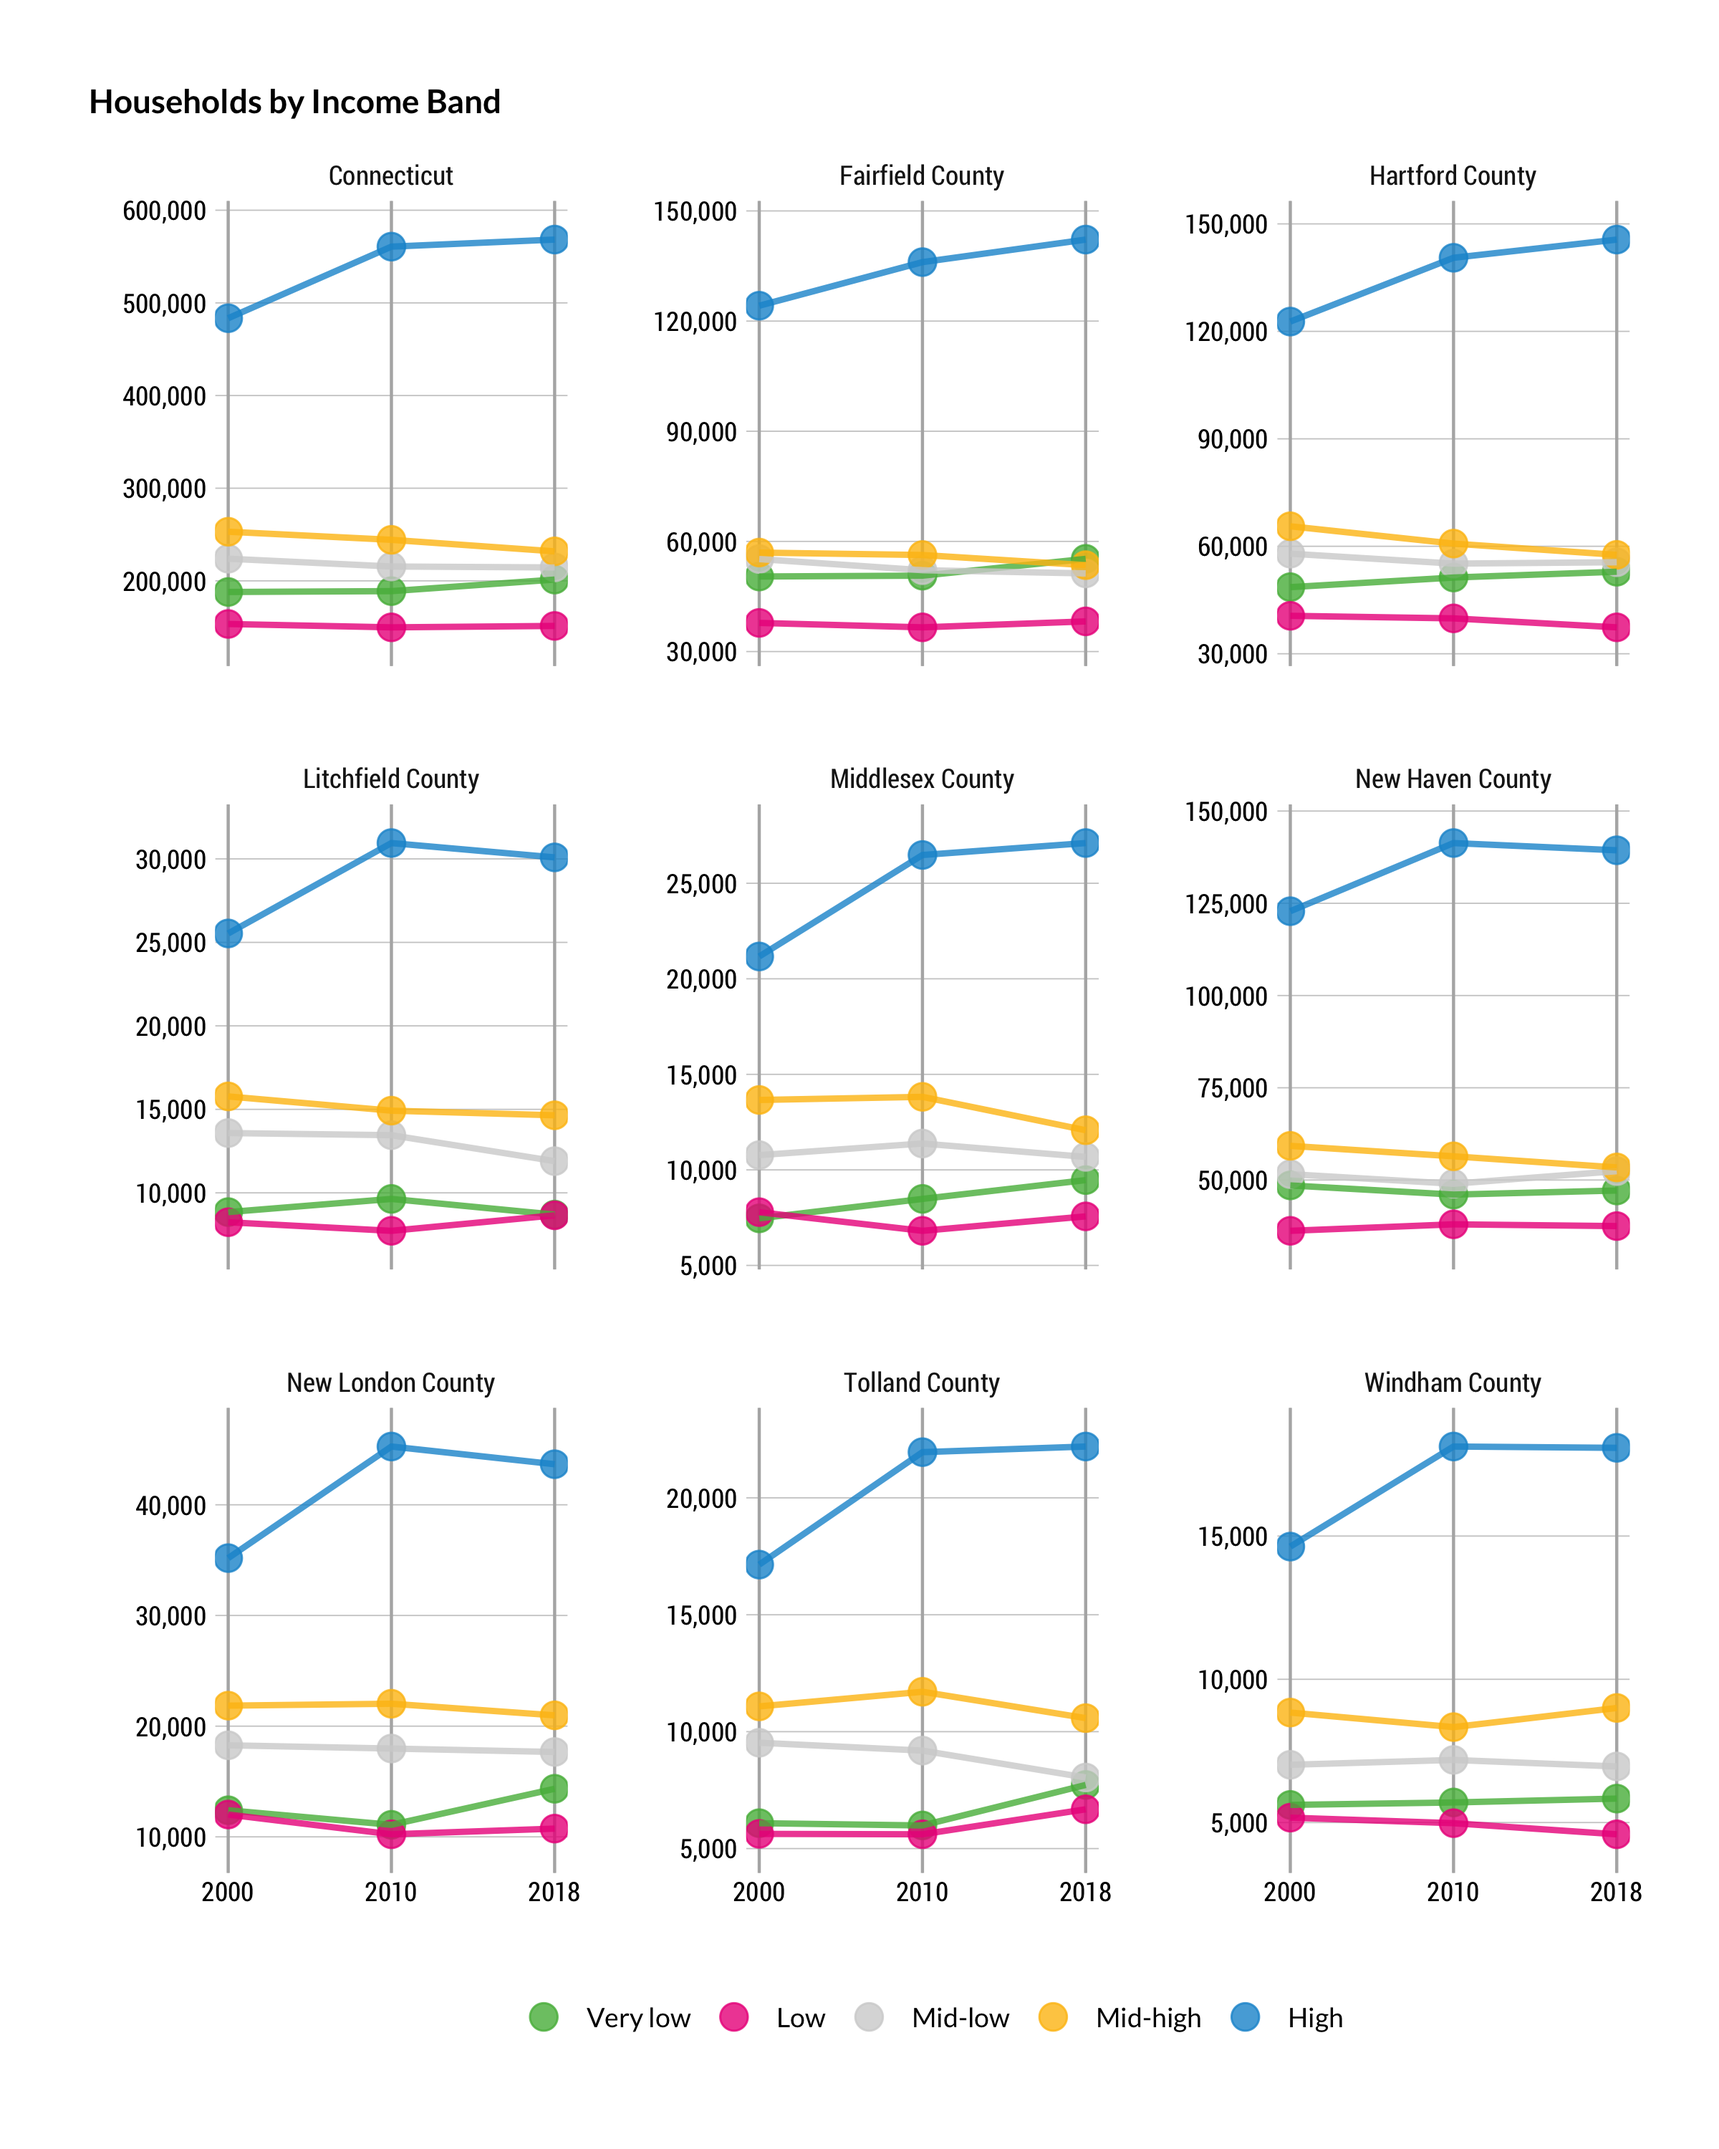
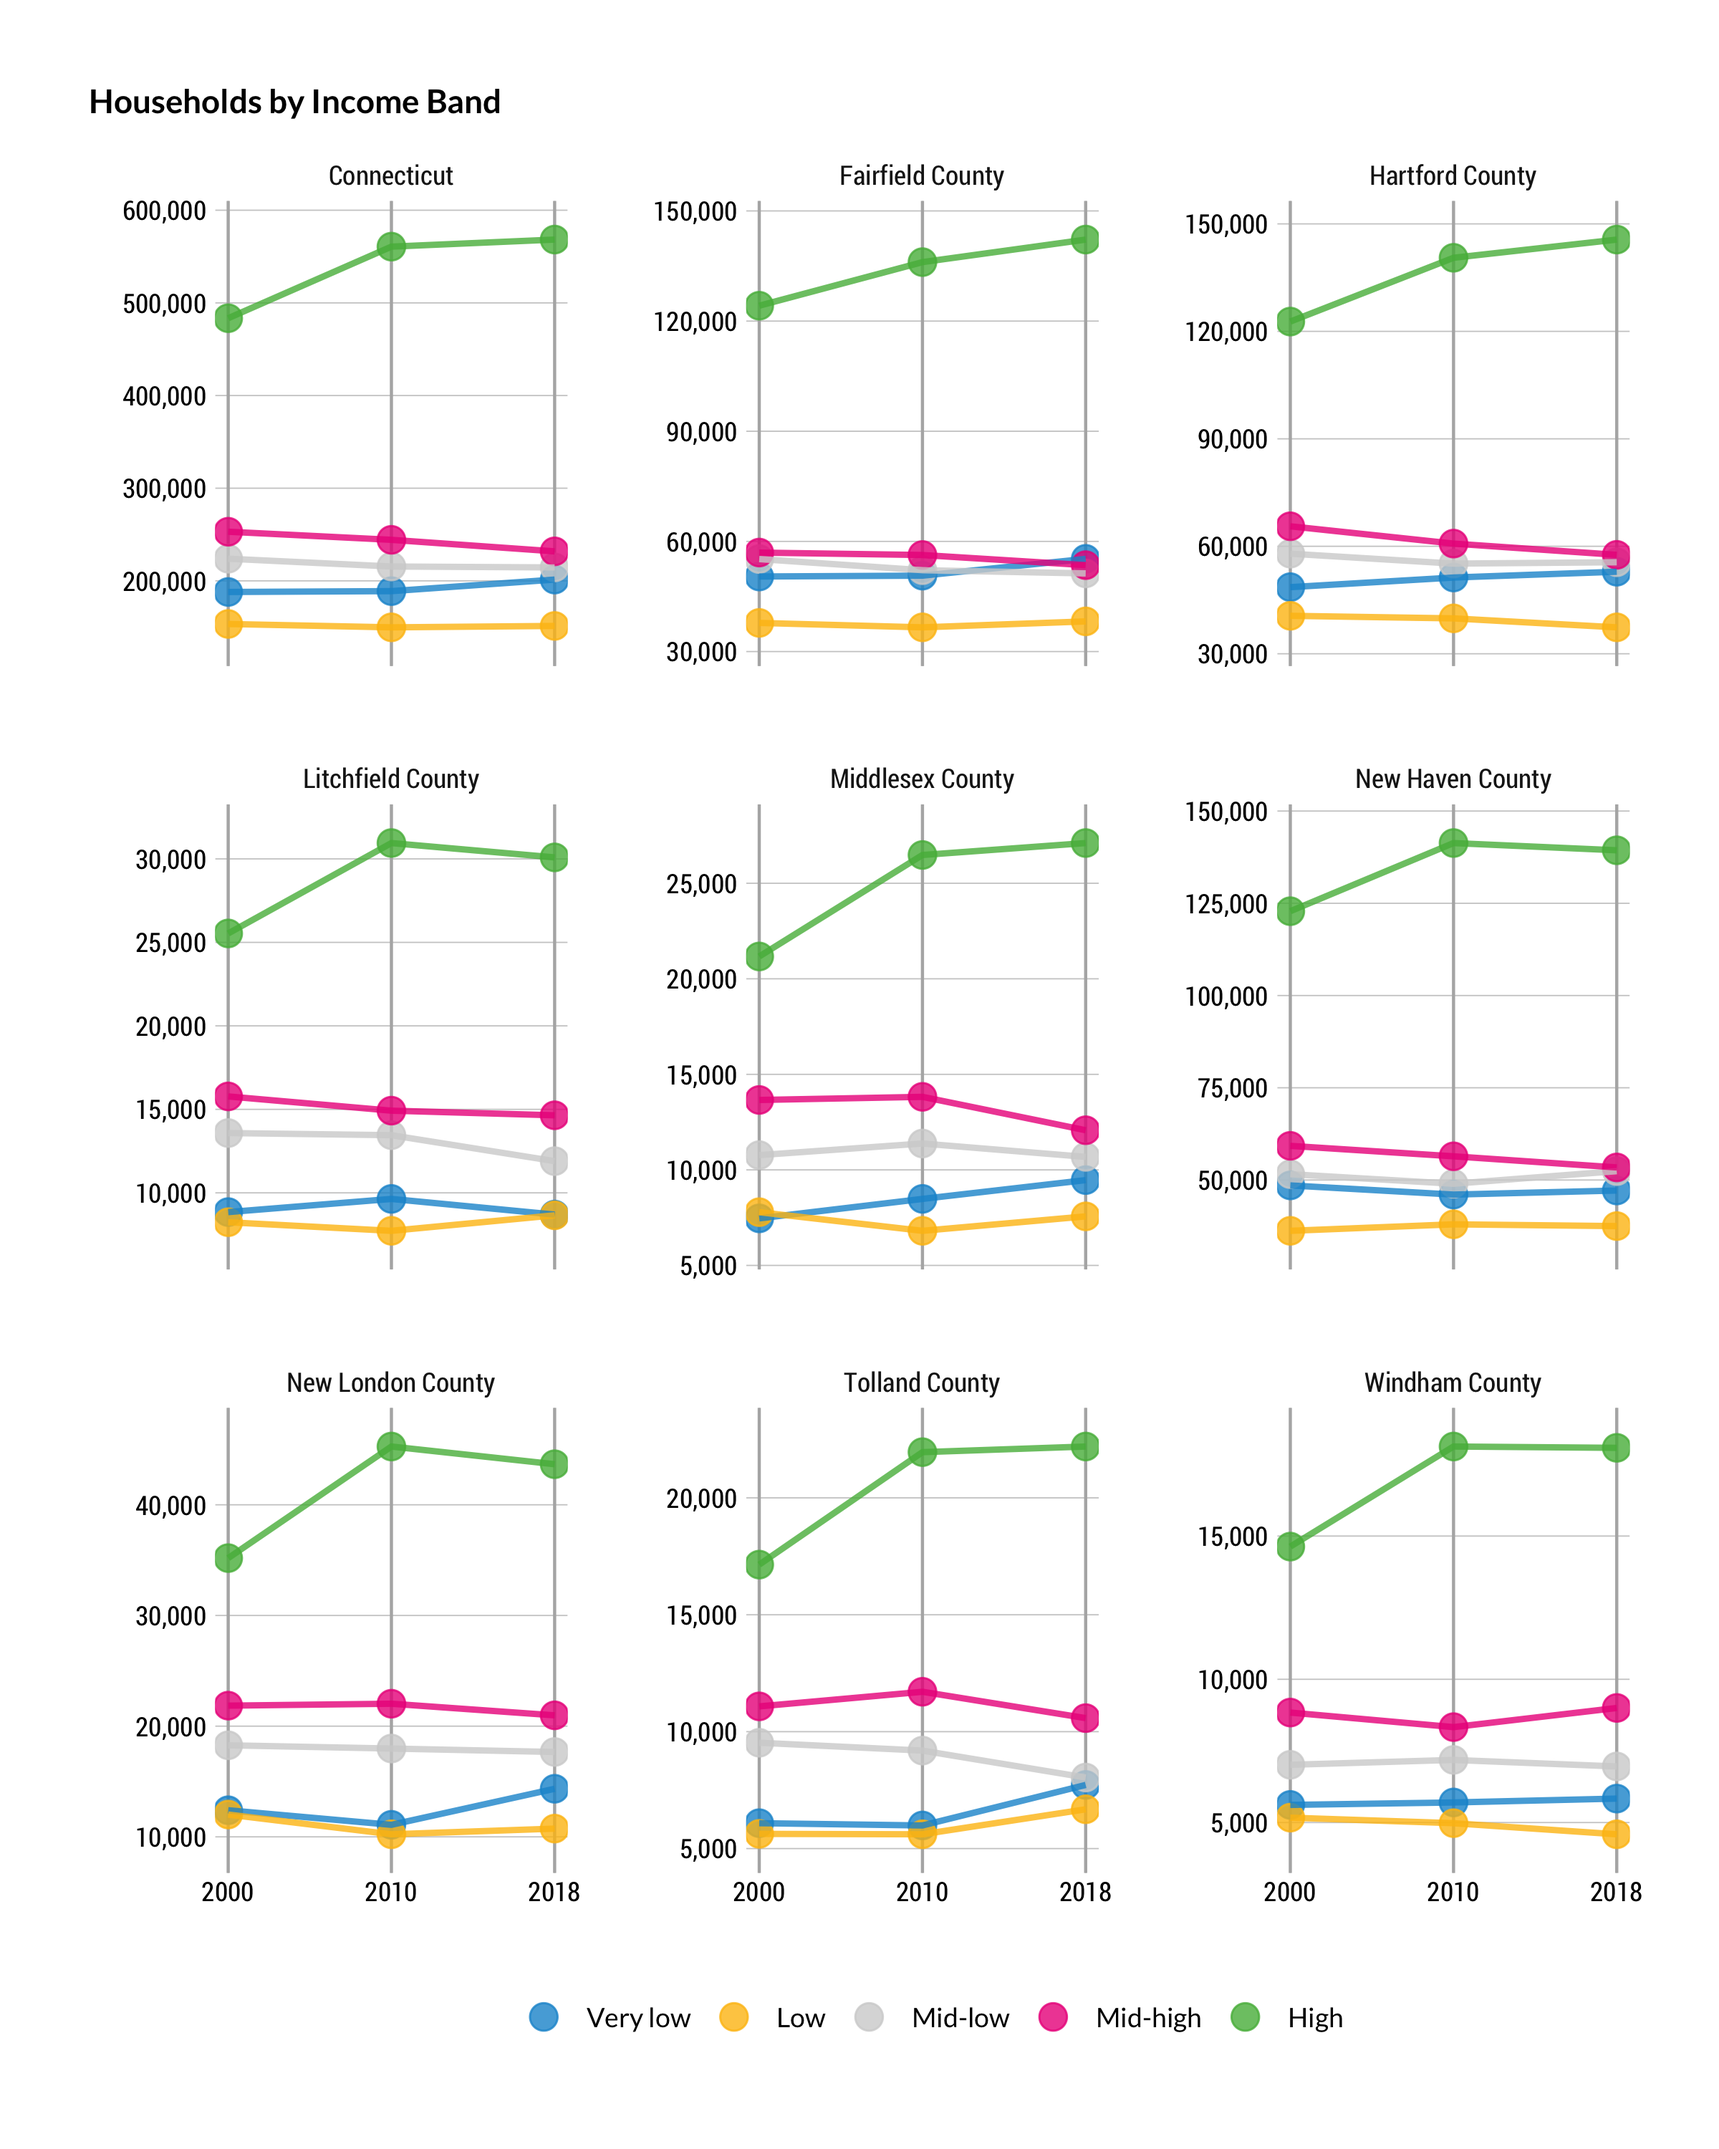
chart fix

diff --git a/notebooks/hh_by_income.md b/notebooks/hh_by_income.md
@@ -201,7 +201,7 @@ hh_by_2018_inc_band %>%
     scale_x_discrete(expand = expansion(mult = c(.04, .04))) +
     facet_wrap(facets = "name", scales = "free_y") +
     hrbrthemes::theme_ipsum_rc() +
-  scale_color_custom(palette = c(pal[1:5]), rev=T) +
+  scale_color_custom(palette = c(pal[1:5])) +
     guides(color = guide_legend(title = "", override.aes = list(linetype = 0))) +
     labs(title = "Households by Income Band",
              x = "", y = "") +
